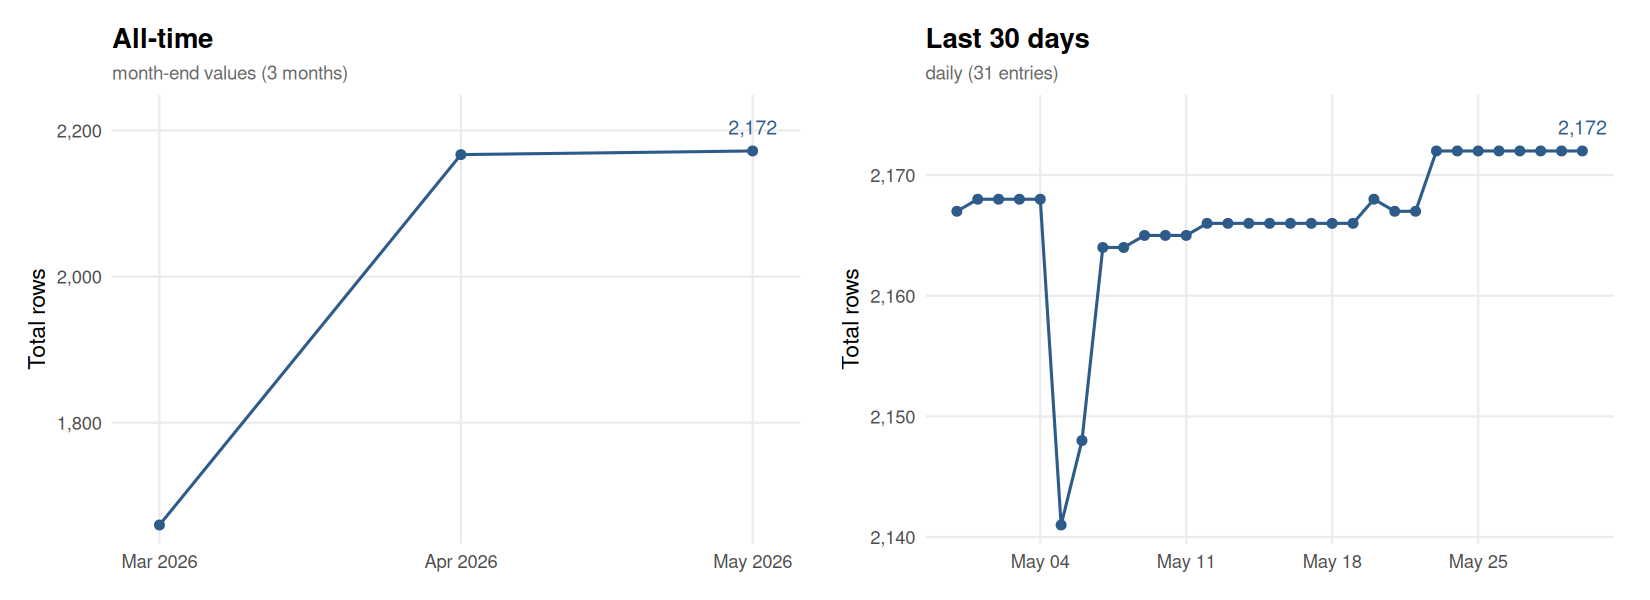
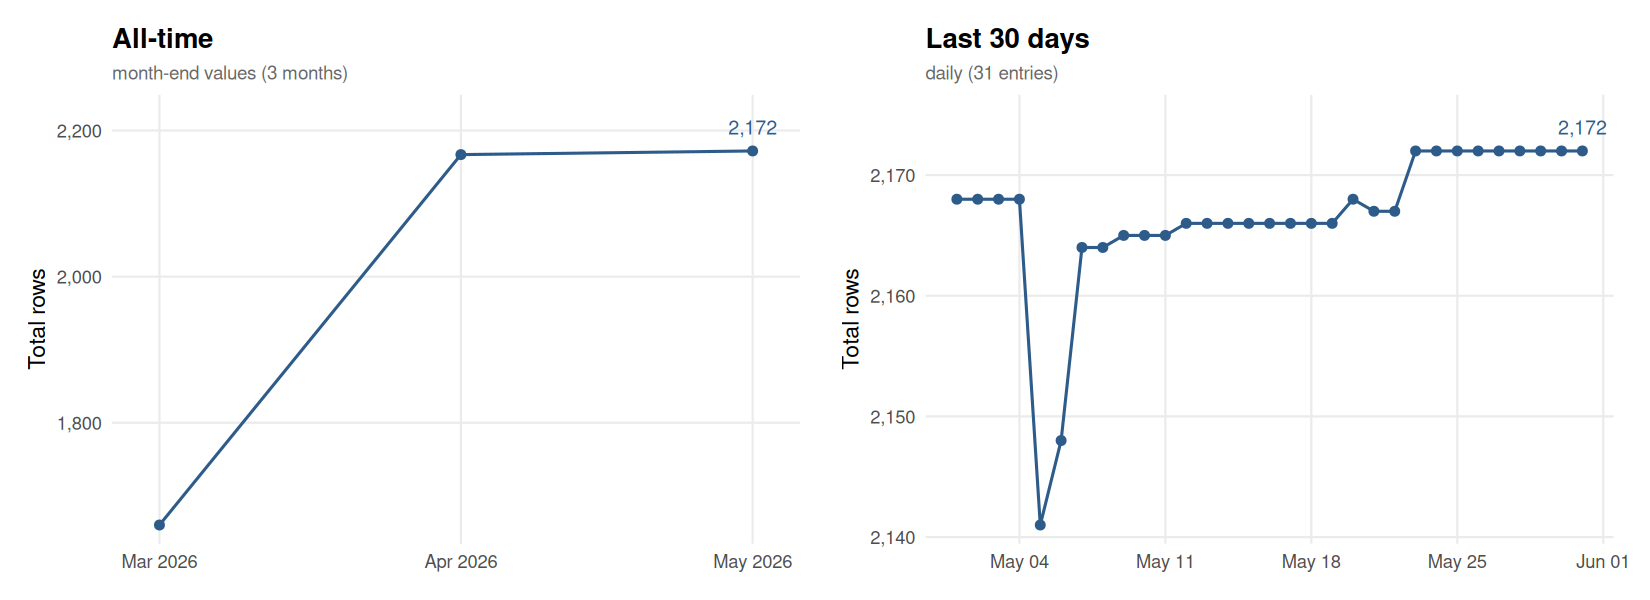
Update flora.csv [automated]

diff --git a/README.md b/README.md
@@ -438,14 +438,15 @@ For API issues:
 This chart is automatically updated after each pipeline run, showing the size of `output/flora.csv` over time.
 
 <!-- FLORA_UPDATE_LOG_START -->
-> **Latest (2026-05-30):** Total = 2,172 | Replications = 2,163 | Reproductions = 9
+> **Latest (2026-05-31):** Total = 2,172 | Replications = 2,163 | Reproductions = 9
 
 ![FLoRA dataset size over time](output/flora_history.png)
 
-<details><summary>Full history (72 entries)</summary>
+<details><summary>Full history (73 entries)</summary>
 
 | Date | Total | Replications | Reproductions |
 |------|------:|-------------:|--------------:|
+| 2026-05-31 | 2172 | 2163 | 9 |
 | 2026-05-30 | 2172 | 2163 | 9 |
 | 2026-05-29 | 2172 | 2163 | 9 |
 | 2026-05-28 | 2172 | 2163 | 9 |
